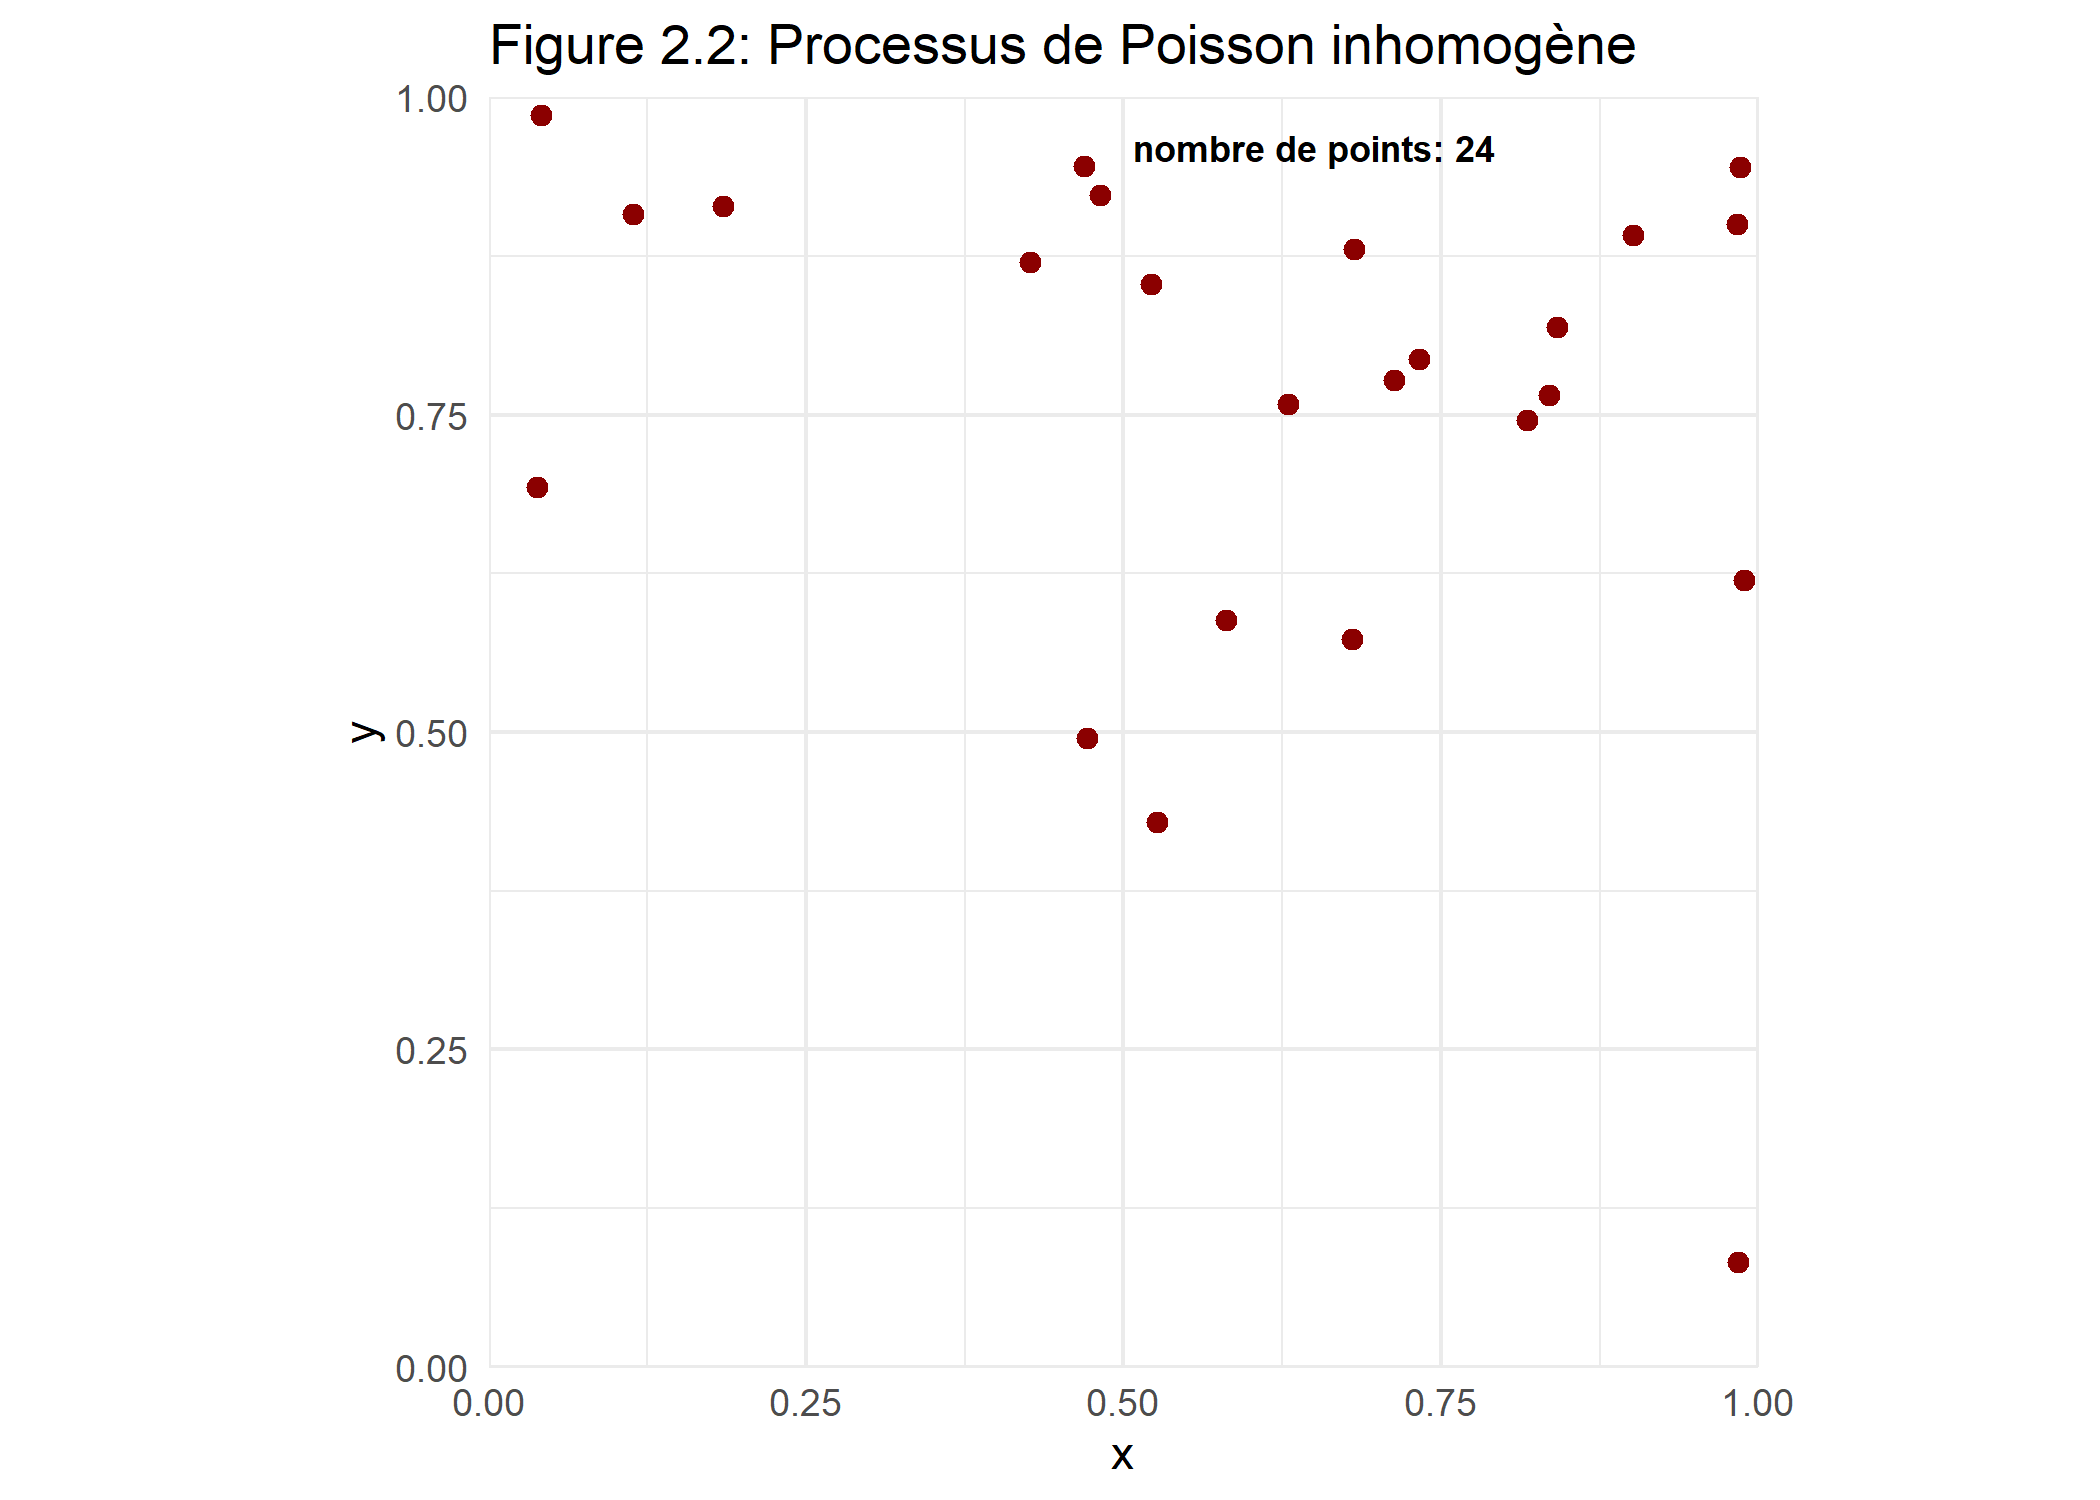
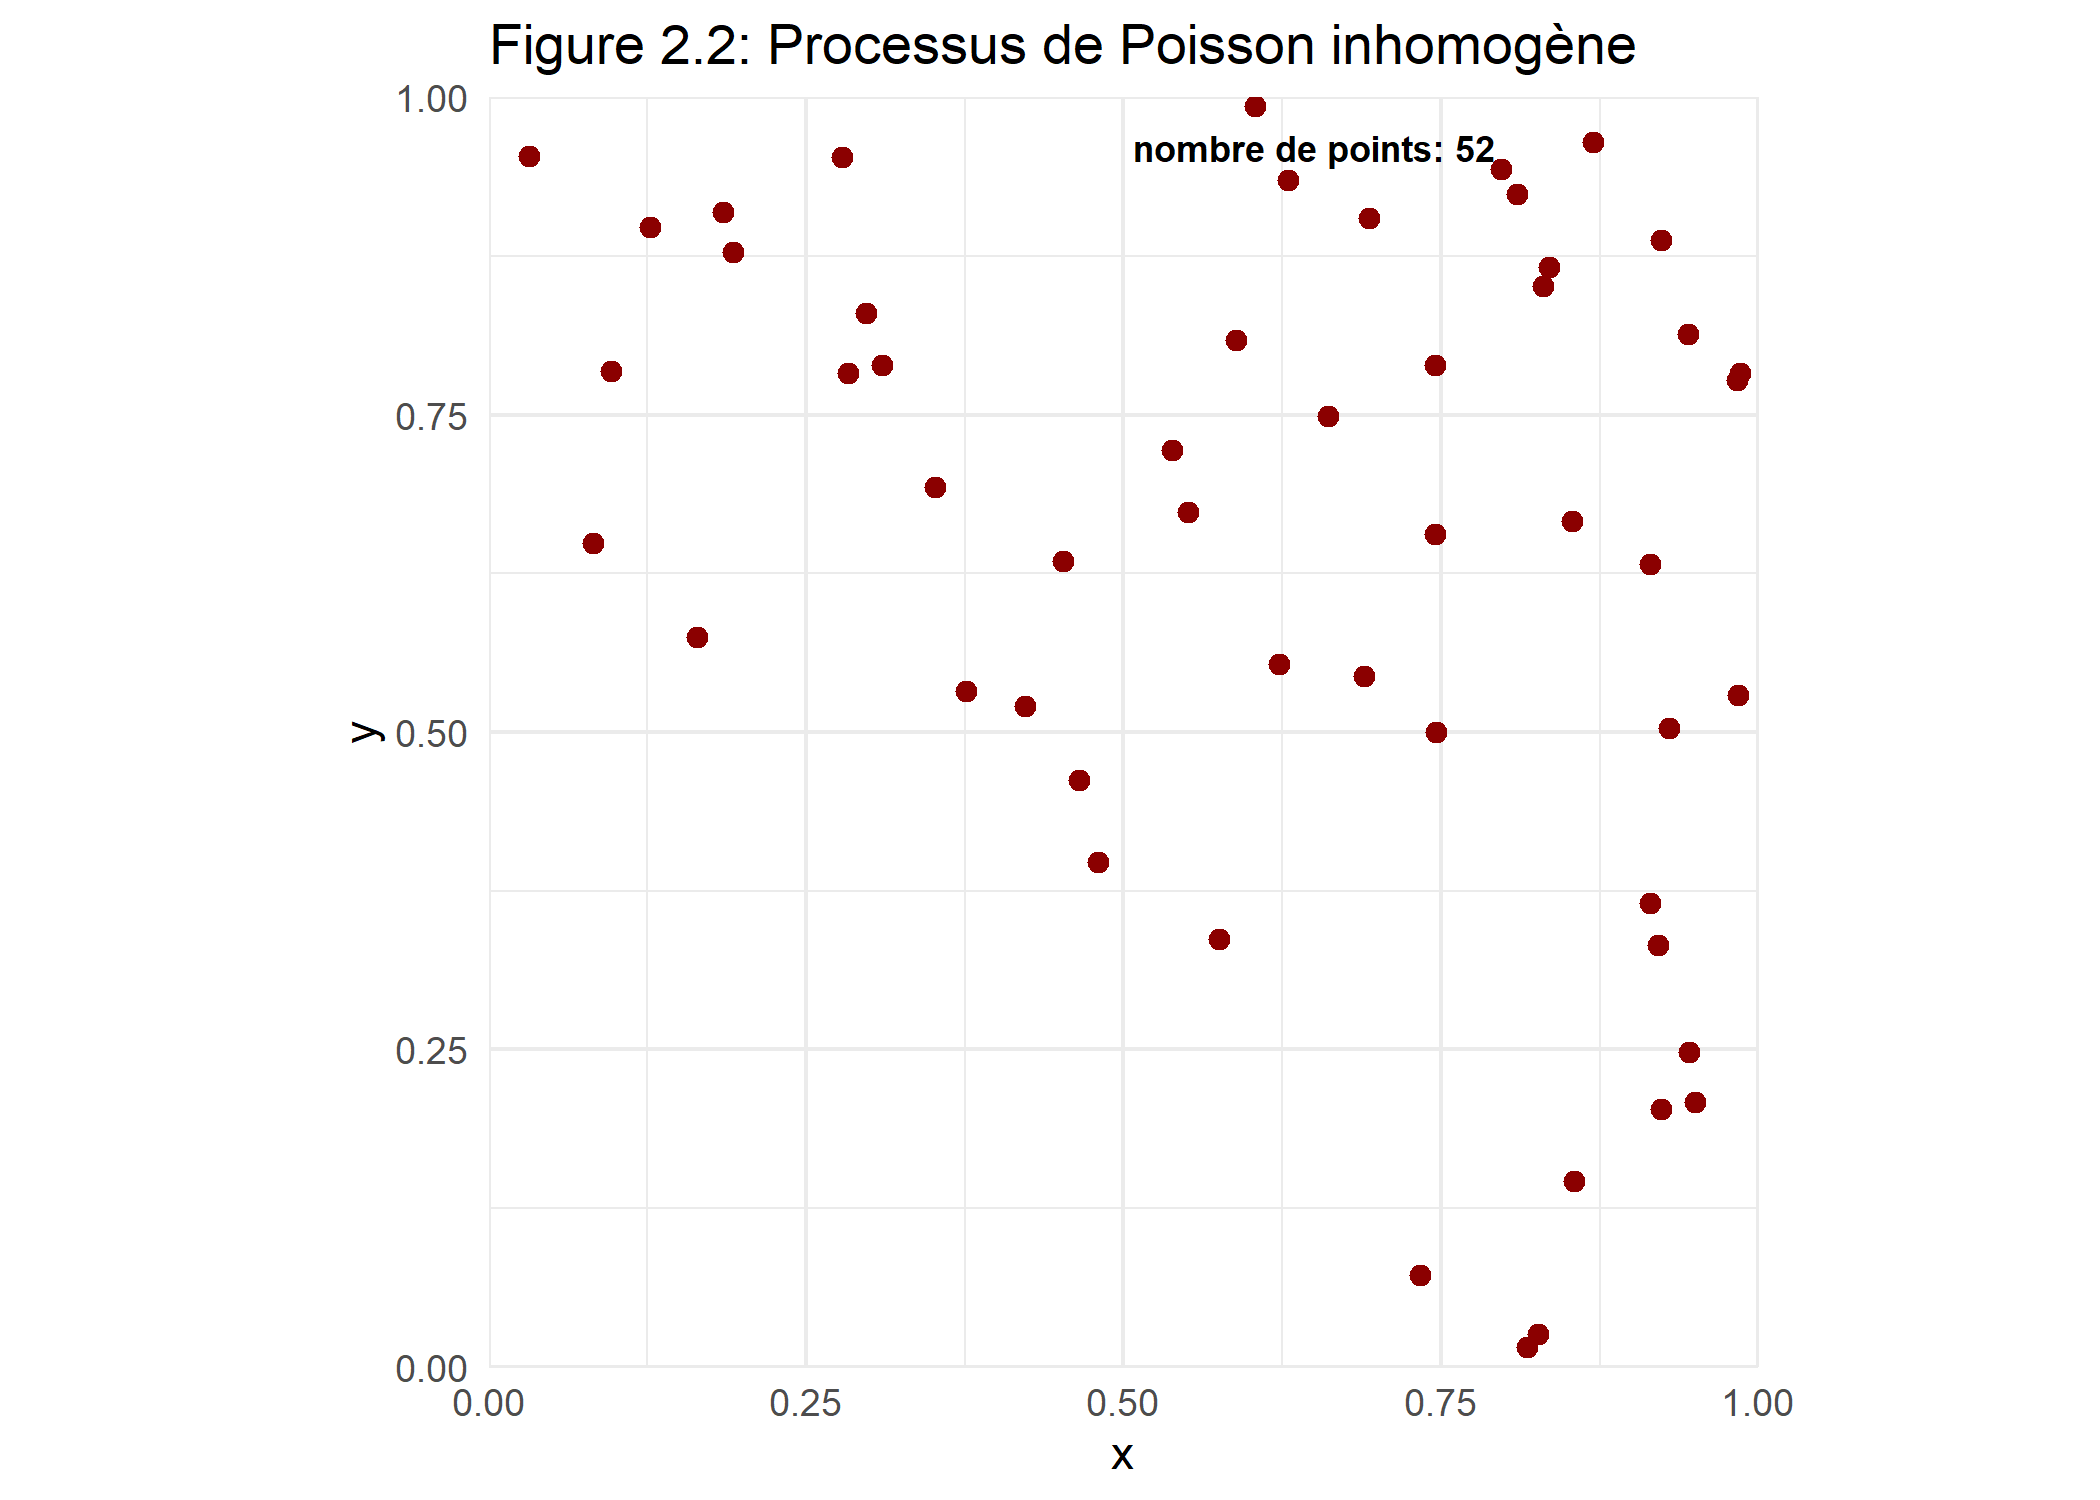
images

diff --git a/docs/index.html b/docs/index.html
@@ -439,7 +439,7 @@ pre > code.sourceCode > span > a:first-child::before { text-decoration: underlin
     <div>
     <div class="quarto-title-meta-heading">Date de publication</div>
     <div class="quarto-title-meta-contents">
-      <p class="date">9 juillet 2026</p>
+      <p class="date">12 juillet 2026</p>
     </div>
   </div>
   